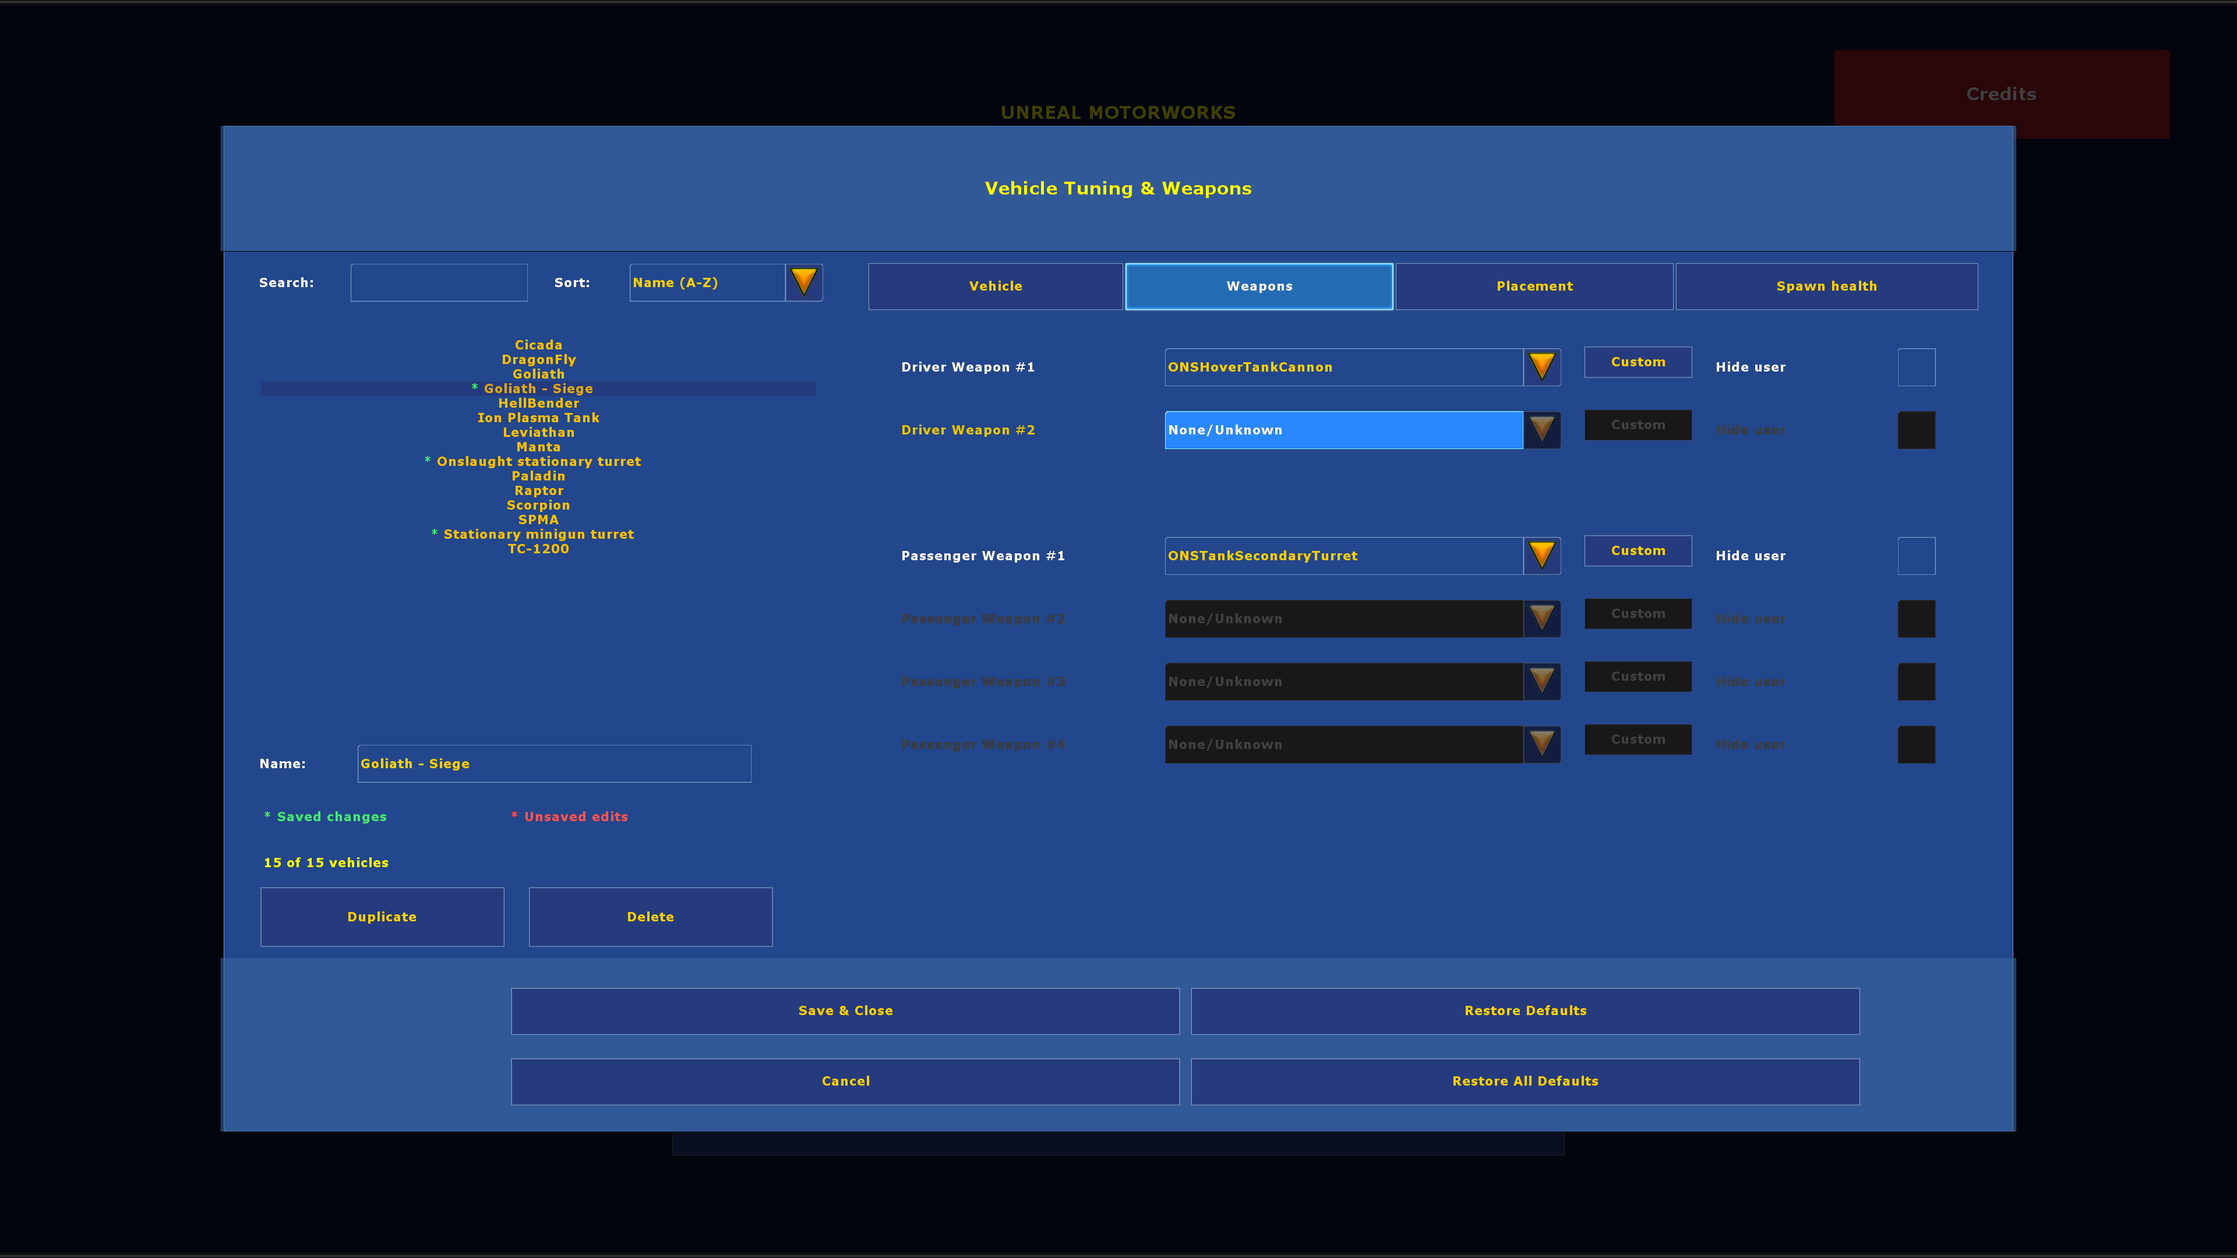
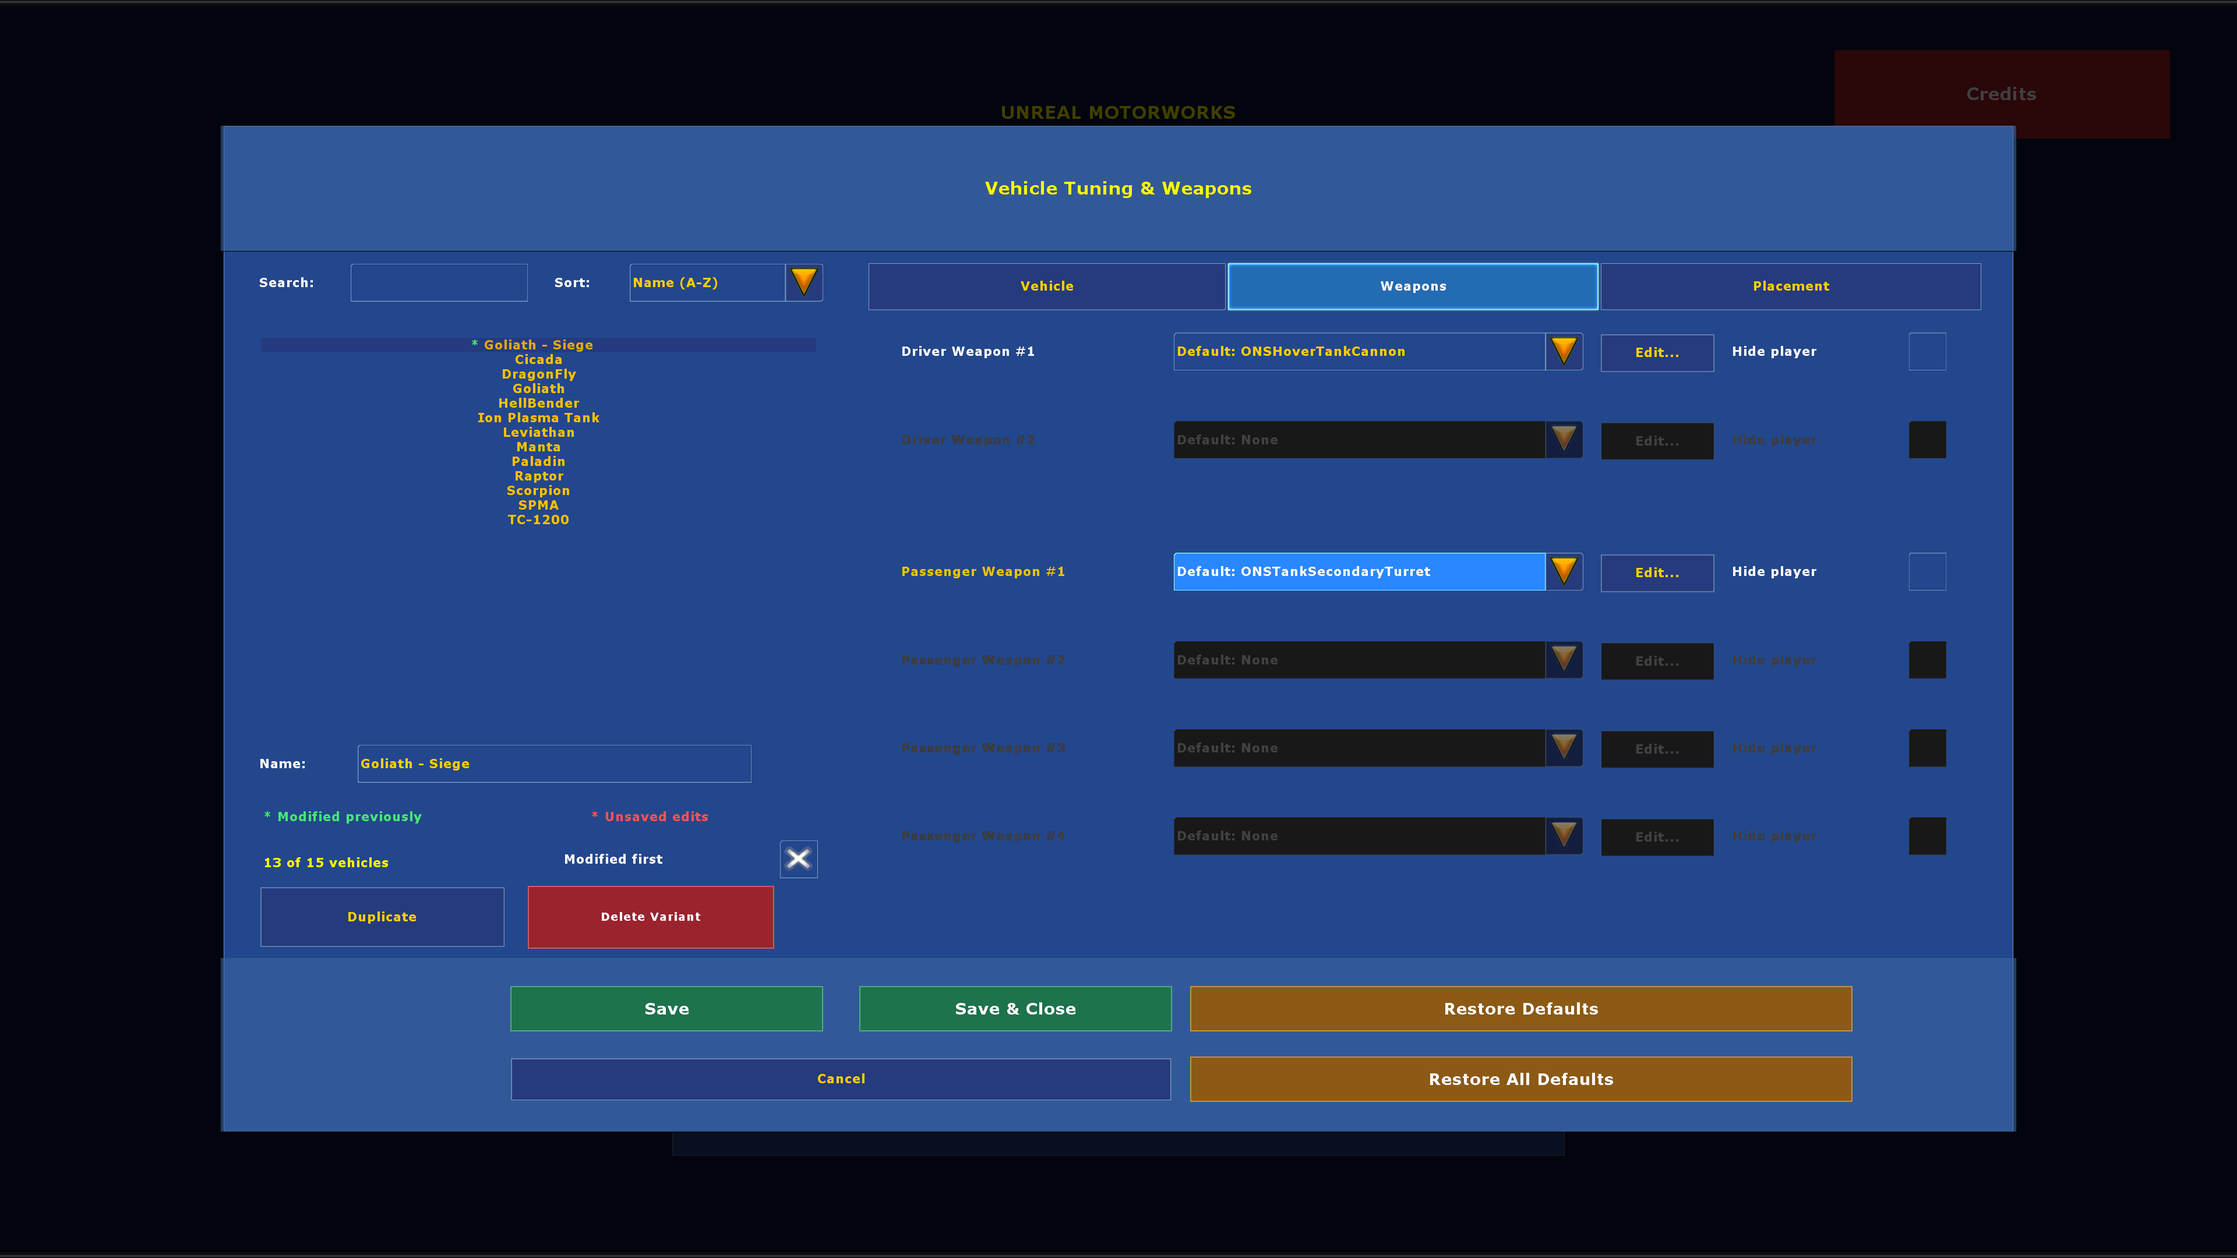
Prepare standalone beta.5 with current fixes and upstream credits

diff --git a/README.md b/README.md
@@ -1,10 +1,10 @@
-# Unreal Motorworks v0.2.5-beta.4 — Standalone Public Beta
+# Unreal Motorworks v0.2.5-beta.5 — Standalone Public Beta
 
 By **Blue Natto (also known as CissiaLikesEggs on Gamebanana)**, for native OldUnreal Unreal Tournament 2004 **3374 or later**.
 
 Choose vehicle replacement groups and tune vehicles through one mutator. Duplicate vehicles into independently named variants, change health and weapons, adjust weapon-mount position/rotation/scale, and optionally randomize spawn health. Unreal Motorworks includes its maintained tuning and replacement backends in one ZIP. Neither original VehicleStuff nor WoRM2k4 needs to be downloaded or installed.
 
-Download the self-contained [v0.2.5-beta.4](https://github.com/NitrogenSulfide/unreal-motorworks/releases/tag/v0.2.5-beta.4).
+Download the self-contained [v0.2.5-beta.5](https://github.com/NitrogenSulfide/unreal-motorworks/releases/tag/v0.2.5-beta.5).
 
 ## Install
 
@@ -23,16 +23,16 @@ This ZIP contains three compiled packages, their cache registrations, and this R
 - **Duplicate as variant**: create a persistent independent profile. Name it, change settings, and save. Delete is available only for duplicates.
 - **Weapons and custom projectiles**: each mount starts with Default: [original weapon], followed by None and a divider before other guns. None removes the mount's gun. Selecting a different gun clears the previous gun's projectile overrides. Edit opens that gun's current projectile/interval draft, starting from its native defaults for a newly selected gun. Restore Defaults resets the draft to the selected gun's projectiles and intervals. Done applies edits; Cancel or Escape discards them. Reopening Edit for the same gun preserves its custom settings. Placement auto-rotate starts enabled and can be switched off.
 - **Variants and previews**: duplicate names are numbered independently for each base vehicle. Motorpool previews use the selected profile’s saved weapon and placement settings. In-group first and Modified first start enabled.
-- **Modification markers**: a green asterisk marks saved vehicle changes; a red asterisk marks changes made since opening the editor. Reverting to the opening values clears the red marker. Restore Defaults clears the marker immediately; use Save to commit the reset, or Cancel to discard it. The key sits below the Name field.
+- **Modification markers**: a green asterisk marks vehicles modified previously; a red asterisk marks changes made since opening the editor. Reverting to the opening values clears the red marker. Restore Defaults clears the marker immediately; use Save to commit the reset, or Cancel to discard it. The key sits below the Name field.
 - **Placement**: Restore Default Values resets only the selected mount’s offsets, angles and scale, while preserving the preview camera. Preview driver/passenger weapon-mount position (Unreal units), rotation (degrees), and uniform scale. Integrated stationary-turret weapons retain their native mounts.
 - **In-group first**: bring current group members to the top without changing Search or Sort.
 - **Spawn health**: set minimum/maximum multipliers against configured health. A vehicle gets one roll when it spawns; live updates do not reroll it. Respawning stationary turrets get fresh tuning.
 - **Tuning limits**: speed, friction and mass scale cap at 5; wheel size and jump height at 3; hover height at 2; fixed and random spawn health at 1,000,000 HP.
-- **Stationary turrets**: tune health/weapons in Vehicle Tuning & Weapons. They are placed map actors, not Motorpool factory slots.
+- **Stationary turrets**: excluded from the tuning browser for this beta. Motorpool handles vehicle factory slots.
 
 Save commits changes without closing the editor; Save & Close commits and closes it. Cancel discards the current editor's unsaved changes. Motorpool has its own Save button. During a standalone match, `mutate VehicleSuite Config` opens the hub. Tuning saves apply immediately in standalone; Motorpool changes take effect on the next map.
 
-Custom firing uses projectile behavior with the selected gun’s model and muzzle. It does not reproduce every gun’s special logic, targeting, or animations. If neither custom projectile is configured, the selected gun keeps normal firing. Custom projectile editing is available for supported Onslaught vehicle and stationary-turret mounts; Assault vehicle weapon logic remains native.
+Custom firing uses projectile behavior with the selected gun’s model and muzzle. It does not reproduce every gun’s special logic, targeting, or animations. If neither custom projectile is configured, the selected gun keeps normal firing. Custom projectile editing is available for supported Onslaught vehicle mounts; Assault vehicle weapon logic remains native.
 
 The rename keeps the internal `VehicleSuite`, `VehicleStuffFix`, and `WoRM2k4Fix` package/configuration names so existing presets and mutator references continue to work.
 
@@ -48,9 +48,9 @@ To uninstall, close UT2004 and remove only the six suite files listed above, or 
 
 Both extra-client-package lists default to empty. A fresh install does not request the author's custom vehicles or voice packs. Server admins using custom vehicles can list their actual package names under `[VehicleSuite.MutVehicleSuite]` in `VehicleSuite.ini` using `VehicleServerPackages[0]=YourPackage`, and further indices up to 31. `VoiceServerPackages[0]=YourVoicePackage` is an optional explicit override. Only configure content the server actually installs and needs. Standalone play skips this registration.
 
-This is a public beta. The current packages were built and checked on native Linux OldUnreal 3374. The interface was checked at 1920×1080, 2560×1440, and 3840×2160. The latest package has not been validated on native Windows.
+This is a public beta. The current packages were built and checked on native Linux OldUnreal 3374. Earlier layout checks covered 1920×1080, 2560×1440, and 3840×2160; the latest editor regression was checked at 2560×1440 and the current feature screenshots were captured at 3840×2160. The latest package has not been validated on native Windows.
 
-**Limited multiplayer testing:** one native OldUnreal dedicated server and one local client, with separate configurations. Joining, variant respawns, health, replacement weapons, and mount placement passed. Driving and firing were tested by me before this standalone update. Internet play, multiple clients, listen servers, and package downloads remain unverified. Compatibility with every custom vehicle is not guaranteed.
+**Limited multiplayer testing:** one native OldUnreal dedicated server and one local client, with separate configurations. Joining, variant respawns, health, replacement weapons, and mount placement passed. Driving and firing were tested by me during beta development. Automated tests also exercised custom projectile firing and persistence. These checks do not establish exhaustive multiplayer gameplay coverage. Internet play, multiple clients, listen servers, and package downloads remain unverified. Compatibility with every custom vehicle is not guaranteed.
 
 **Standalone beta update:** the original mod downloads are no longer prerequisites. A fresh configuration now resolves directly to stock vehicle mappings. Custom vehicles remain optional separate downloads; this ZIP includes the editor and runtime, not a custom vehicle collection.
 
@@ -59,8 +59,10 @@ Report your OldUnreal patch version, map, mutators, reproduction steps, and rele
 ## Credits
 
 - Unreal Motorworks coordination, maintained backend fixes, and new editor work: **Blue Natto (also known as CissiaLikesEggs on Gamebanana)**.
-- Original VehicleStuff: **[-will-]**, **Fraghouse Mod Team**; original testing: **Underscore**.
-- Original WoRM2k4 and Motorpool: **Kangus (Justin Follis)**; original thanks to WMP forum testers, Obscenery, and EvilDrWong.
+- Original **VehicleStuff**, by **[-will-]** and the **Fraghouse Mod Team**; original testing: **Underscore**. [Preserved VehicleStuff listing](https://pwc.muffincdn.com/ut2004/?dir=mutators) and [historical official contest listing](https://zx.net.nz/mirror/www.unrealtournament.com/ut2003/ct_phase3/ct_mutator.html).
+- Original **WoRM2k4 / Motorpool**, by **Kangus (Justin Follis)**; original thanks to WMP forum testers, Obscenery, and EvilDrWong. [Preserved original mod page](https://unrealarchive.org/unreal-tournament-2004/mutators/W/worm2k4-v2-5_7508a8b2.html).
+
+These links credit the original work; they are not installation requirements. Motorworks is self-contained and does not bundle either original mod.
 
 The Blue Natto avatar appears beside the centered author credit. The in-game Credits panel preserves the original-author attribution. If the legacy mod is already installed, its artwork may appear in Credits; this is optional and is not needed to use Motorworks.
 

diff --git a/docs/VALIDATION.md b/docs/VALIDATION.md
@@ -1,22 +1,22 @@
-# v0.2.5-beta.4 validation
+# v0.2.5-beta.5 validation
 
-This release rebuilds the replacement backend without inheriting classes from either original mod. `release/manifest.json` records the exact downloadable archive and member hashes.
+This beta ships the exact compiled packages installed and tested locally after the weapon editor, reset-marker and DkoppII turret fixes. The release manifest identifies the downloadable ZIP and every member. Neither original VehicleStuff nor WoRM2k4 is bundled or required.
 
 | Evidence | Result and scope |
 | --- | --- |
 | Native Linux build | Zero errors and warnings |
-| Gameplay fixtures | 25 checks passed |
-| Editor fixtures | 46 checks passed |
-| Actual mouse interactions | 25 checks passed, including Reset and double-click membership |
-| Layout | 45 checks at each of 1080p, 1440p and 4K; screenshots inspected |
-| Installation/rollback fixture | Collision round trip passed; backup and installed hashes verified |
-| Local dedicated server/client | 13 client and 5 server checks passed: joining, variant respawn, health/max, weapons and mount transforms |
-| Hands-on testing | Driving and firing were tested by me before beta.4; not repeated for this exact build |
+| Current weapon editor / persistence | 100 checks; real pointer and keyboard interactions, Save/Cancel, defaults, gun changes, projectiles and fresh-process reload |
+| Current custom Defender gameplay | 7 checks; actual Motorpool factory variant on Torlan, turret shell rendering, custom intervals and actor cleanup |
+| Current standalone server/client | One native dedicated server and one local client, separate configurations, both original mods absent; 13 client and 5 server checks passed for joining, respawn, health, weapons and mount transforms |
+| Current screenshots | Four stock-feature captures at 3840×2160 on a separate virtual display; inspected before publication |
+| Installation and rollback | Fresh and collision round trips; installed/member/backup hashes checked; existing presets preserved |
+| Live installation | Current game packages match tested bytes; saved configuration retained |
+| Hands-on testing | Driving and firing tested by me during beta development; latest turret correction still awaits a separate user confirmation |
 
-Server and client testing used native OldUnreal 3374, loopback networking, separate copied configurations and a private display. Latest-candidate testing with the original WoRM2k4 package absent is recorded in the release review. Both original mods are excluded from the standalone build and dedicated-server/client test trees. Full logs and private source manifests remain private; public summaries do not substitute for those records.
+Earlier development checks covered layouts at 1080p, 1440p and 4K, remote Save acknowledgments, variant/group deletion, view interactions and tuning limits. Those records apply to their identified earlier candidates; they are not a claim that every scenario was rerun on this ZIP. Current editor checks use private 1440p software rendering.
 
-Unverified scenarios include internet latency/packet loss, multiple clients, reconnects/late joins, listen servers, package downloading/redirects and the latest packages on native Windows. Some test fixtures inherited unrelated inventory/HUD warnings; this is not a warning-free clean-install claim. Fresh stock fallback no longer attempts an empty class-name load.
+Multiplayer support has limited testing: loopback networking, one dedicated server and one client. Internet latency/packet loss, multiple clients, listen servers, downloads/redirects, reconnects and every third-party vehicle remain unverified. The latest DkoppII cosmetic shell fix has standalone gameplay evidence, not a dedicated-server cosmetic verification.
 
-Portable CI validates source and release metadata only. Native gameplay, visual checks, independent review, live installation and publication are separate gates.
+Test fixtures may inherit unrelated inventory/HUD warnings from copied game configuration. The suite-specific regressions had no errors; this is not a guarantee that every installation has warning-free logs. Private evidence, backend source and build-input manifests remain private.
 
-Steam/Proton installations have not been tested; support is not guaranteed. Native Windows remains unvalidated for these exact packages.
+Steam/Proton installations have not been tested; support is not guaranteed. These exact packages remain unvalidated on native Windows. Portable CI validates source boundaries, syntax, metadata and temporary fixtures, not UnrealScript compilation or gameplay.

diff --git a/docs/CHANGELOG.md b/docs/CHANGELOG.md
@@ -1,0 +1,13 @@
+# v0.2.5-beta.5
+
+Standalone public beta after the beta.4 distribution hold. This version keeps the existing internal package/configuration names and does not overwrite presets.
+
+- Independent named vehicle variants, per-vehicle numbering, group preview synchronization, and automatic removal of deleted variants from groups.
+- Save without closing; restored defaults no longer leave stale modification markers. Modified first and In-group first start enabled.
+- Each mount offers Default: original weapon, None and alternate guns. None removes the gun. Edit starts a newly selected gun from its own projectile defaults; Restore Defaults, Done and Cancel have explicit draft behavior.
+- Custom projectile firing retains the selected gun appearance. DkoppII custom Defender variants recreate the separate turret shell in gameplay.
+- Advanced health accepts multiple digits and synchronizes with Health. Caps: speed/friction/mass 5, wheel/jump 3, hover 2, health 1,000,000.
+- Corrected window/panning behavior, footer spacing and mount-only Restore Default Values. Stationary turrets are excluded from the browser for now.
+- Four refreshed 4K stock-feature screenshots, original-mutator credit links and explicit testing limits.
+
+This is a beta, not a stable release. Internet multiplayer, native Windows and exhaustive custom-vehicle compatibility remain unvalidated; Steam/Proton support is not guaranteed.

diff --git a/docs/PROVENANCE.md b/docs/PROVENANCE.md
@@ -73,3 +73,7 @@ The Blue Natto credits avatar is the existing brand graphic selected by Blue Nat
 The legacy artwork is loaded optionally from an already-installed legacy mod and is not copied into this distribution. The original WoRM2k4 package, custom vehicles, character/voice assets, personal presets, private backend source, engine exports, and machine configuration are excluded. The four feature screenshots show stock UT2004 vehicle examples and an independently named tuning variant.
 
 The historical licence observations above remain unchanged. Attribution and the publication decision do not grant a new upstream licence. This beta is a free fan-made modification for UT2004; it does not include the game or assert ownership of original authors' work.
+
+## beta.5 attribution links
+
+VehicleStuff: [preserved listing](https://pwc.muffincdn.com/ut2004/?dir=mutators), [historical official contest page](https://zx.net.nz/mirror/www.unrealtournament.com/ut2003/ct_phase3/ct_mutator.html). WoRM2k4 Motorpool: [preserved release page](https://unrealarchive.org/unreal-tournament-2004/mutators/W/worm2k4-v2-5_7508a8b2.html). These are credit references, not dependencies. The user requested public beta publication again on 2026-10-07; prior attribution/provenance boundaries remain in effect.

diff --git a/release/PROJECTILE-FIX-VALIDATION.md b/release/PROJECTILE-FIX-VALIDATION.md
@@ -1,3 +1,5 @@
+> Historical development record, superseded by v0.2.5-beta.5. Descriptions and hashes below refer to their original candidates. Current behavior is documented in README and docs/VALIDATION.md.
+
 # Unpublished custom-projectile saving fix
 
 Public distribution is on hold: the repository is private and beta.4 is a draft.

diff --git a/release/EDITOR-USABILITY-VALIDATION.md b/release/EDITOR-USABILITY-VALIDATION.md
@@ -1,3 +1,5 @@
+> Historical development record, superseded by v0.2.5-beta.5. Descriptions and hashes below refer to their original candidates. Current behavior is documented in README and docs/VALIDATION.md.
+
 # Unpublished editor usability candidate
 
 The repository remains private, beta.4 remains a draft, and publication stays on

diff --git a/release/EDITOR-OPTIONS-VALIDATION.md b/release/EDITOR-OPTIONS-VALIDATION.md
@@ -1,3 +1,5 @@
+> Historical development record, superseded by v0.2.5-beta.5. Descriptions and hashes below refer to their original candidates. Current behavior is documented in README and docs/VALIDATION.md.
+
 # Unpublished editor options
 
 Distribution remains on hold: the repository is private, beta.4 remains a draft,
